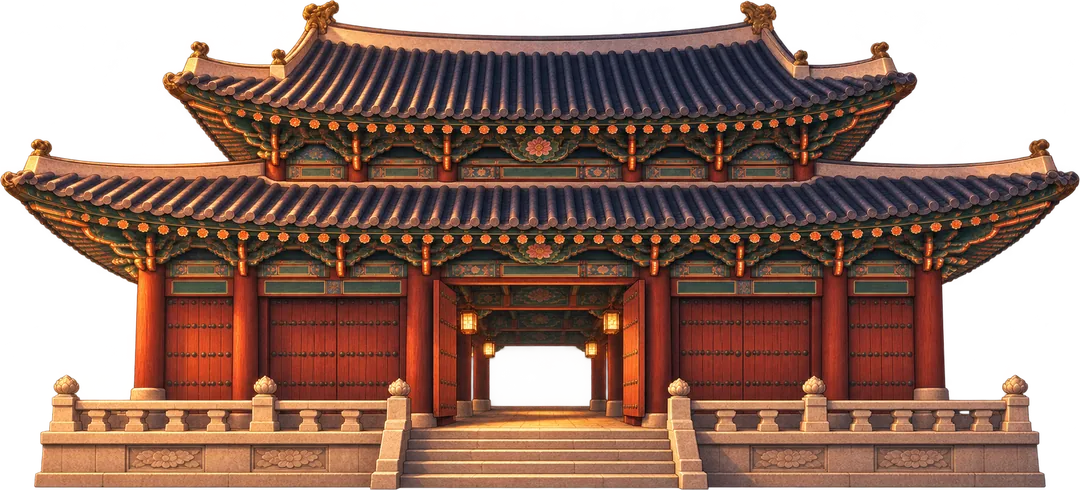
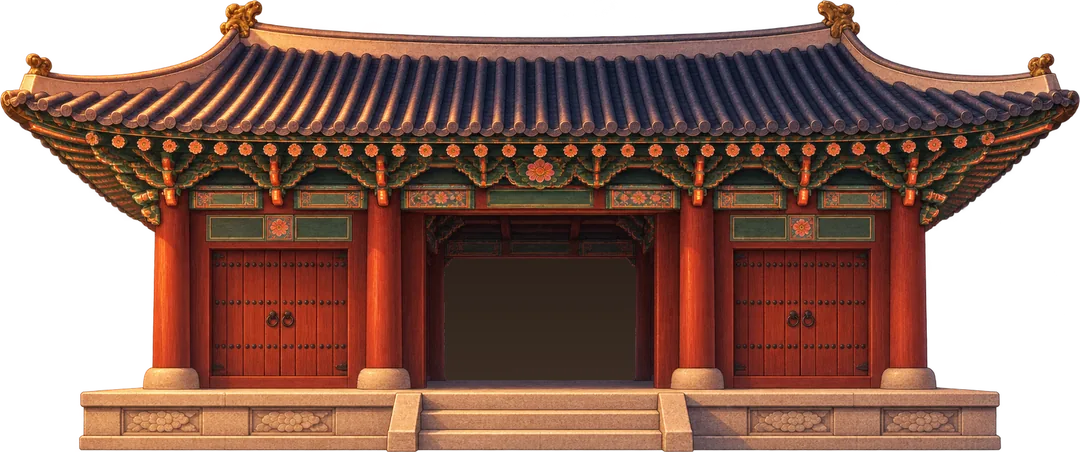
근정문을 단층 문 그림으로 교체, 가운데 통로는 그늘로
Claude-Session: https://claude.ai/code/session_01VzNXFL6pKmRhG5PhFNw54P

diff --git a/jojeong/components/CourtBoard.tsx b/jojeong/components/CourtBoard.tsx
@@ -134,7 +134,7 @@ export default function CourtBoard({
       </div>
 
       {/* 근정문과 그 밖의 유배 */}
-      <Image src="/king/gate.webp" alt="근정문" width={1080} height={490} className="mt-6 block h-auto w-full" />
+      <Image src="/king/gate.webp" alt="근정문" width={1080} height={452} className="mt-6 block h-auto w-full" />
       <div className="relative mt-2">
         <Image src="/king/exile.webp" alt="유배 가는 배와 섬" width={720} height={392} className="mx-auto block h-auto w-[84%]" />
         <p className="mt-1 text-center text-[14px] leading-relaxed text-ink-soft">
